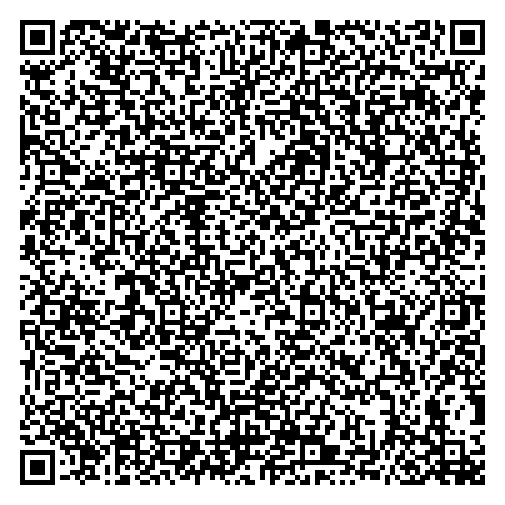
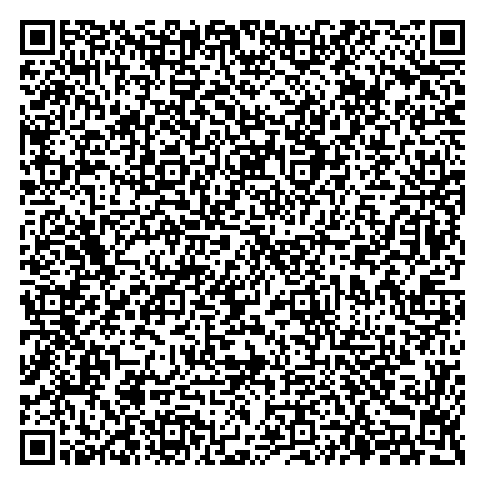
NO: Add updated test code (#99)
* NO: Add new test code

* Updated readme

diff --git a/NO/1.3.0/README.md b/NO/1.3.0/README.md
@@ -18,7 +18,7 @@
 ![REC](REC.png)
 
 ### Test
-* Until: 24.06.2021
+* Until: 03.07.2021
 
 ![Test](TEST.png)
 
